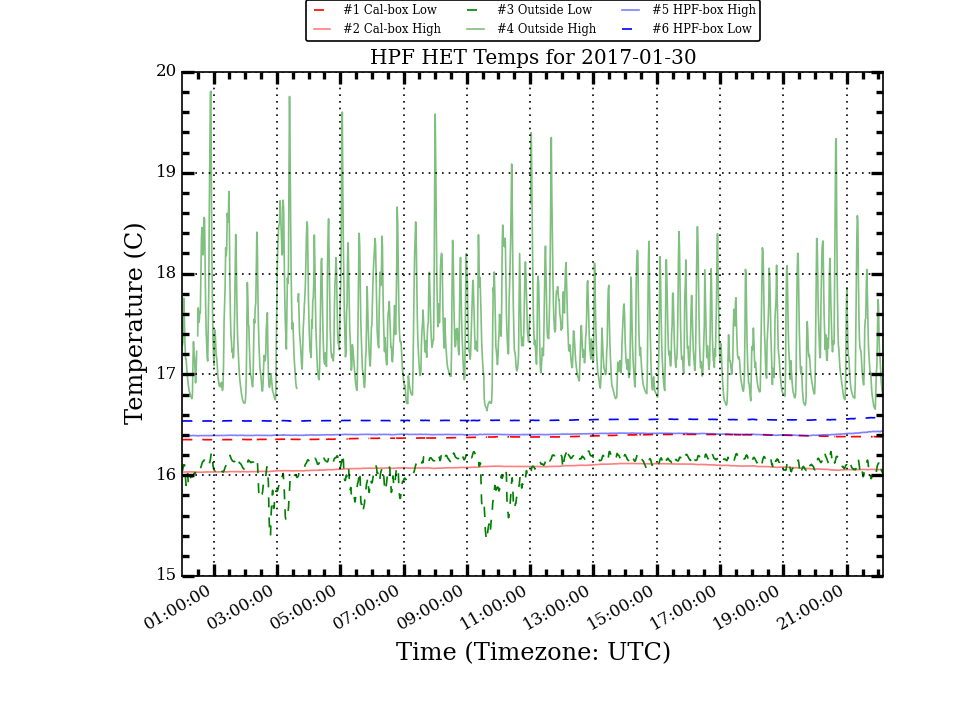
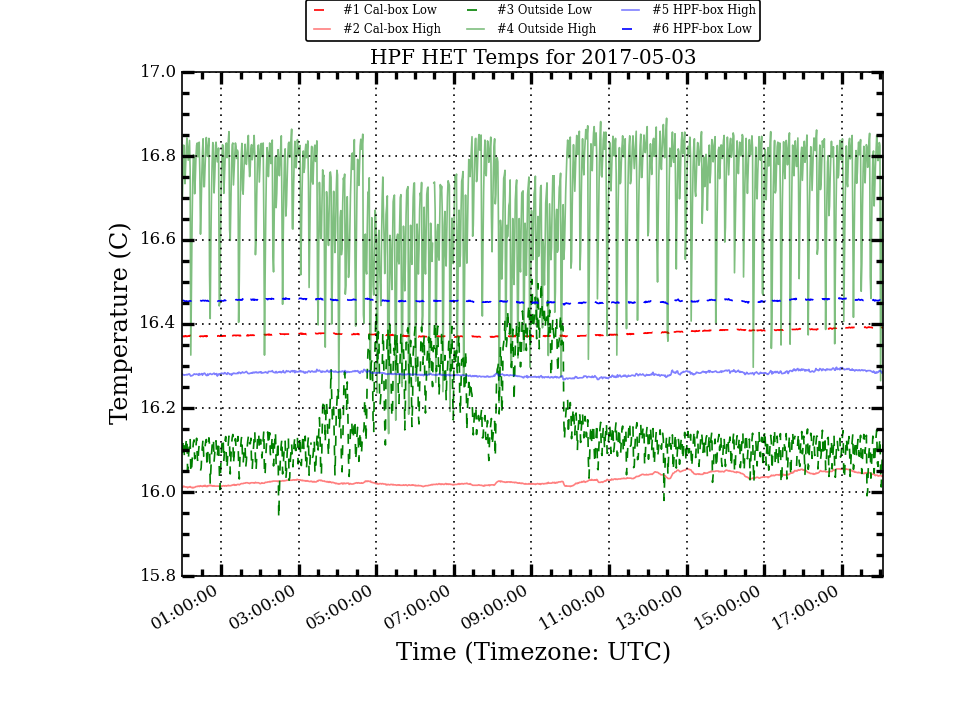
Update HPF Temp Plots

diff --git a/research/hpf_temps/plots/LakeShoreLogTotal_today_stats.html b/research/hpf_temps/plots/LakeShoreLogTotal_today_stats.html
@@ -10,56 +10,56 @@
  </TR>
  <TR>
   <TD>Cal_Low</TD>
-  <TD>16.379</TD>
-  <TD>0.018</TD>
-  <TD>16.380</TD>
-  <TD>16.405</TD>
-  <TD>16.351</TD>
-  <TD>0.054</TD>
+  <TD>16.377</TD>
+  <TD>0.007</TD>
+  <TD>16.375</TD>
+  <TD>16.393</TD>
+  <TD>16.369</TD>
+  <TD>0.024</TD>
  </TR>
  <TR>
   <TD>Cal_High</TD>
-  <TD>16.074</TD>
-  <TD>0.025</TD>
-  <TD>16.073</TD>
-  <TD>16.117</TD>
-  <TD>16.028</TD>
-  <TD>0.089</TD>
+  <TD>16.029</TD>
+  <TD>0.013</TD>
+  <TD>16.025</TD>
+  <TD>16.056</TD>
+  <TD>16.010</TD>
+  <TD>0.046</TD>
  </TR>
  <TR>
   <TD>Out_Low</TD>
-  <TD>16.075</TD>
-  <TD>0.142</TD>
-  <TD>16.126</TD>
-  <TD>16.241</TD>
-  <TD>15.356</TD>
-  <TD>0.885</TD>
+  <TD>16.166</TD>
+  <TD>0.107</TD>
+  <TD>16.129</TD>
+  <TD>16.506</TD>
+  <TD>15.938</TD>
+  <TD>0.568</TD>
  </TR>
  <TR>
   <TD>Out_High</TD>
-  <TD>17.414</TD>
-  <TD>0.515</TD>
-  <TD>17.294</TD>
-  <TD>19.810</TD>
-  <TD>16.640</TD>
-  <TD>3.170</TD>
+  <TD>16.702</TD>
+  <TD>0.142</TD>
+  <TD>16.751</TD>
+  <TD>16.890</TD>
+  <TD>16.139</TD>
+  <TD>0.751</TD>
  </TR>
  <TR>
   <TD>HPF_High</TD>
-  <TD>16.405</TD>
-  <TD>0.008</TD>
-  <TD>16.404</TD>
-  <TD>16.441</TD>
-  <TD>16.390</TD>
-  <TD>0.051</TD>
+  <TD>16.282</TD>
+  <TD>0.006</TD>
+  <TD>16.282</TD>
+  <TD>16.297</TD>
+  <TD>16.267</TD>
+  <TD>0.030</TD>
  </TR>
  <TR>
   <TD>HPF_Low</TD>
-  <TD>16.547</TD>
-  <TD>0.007</TD>
-  <TD>16.545</TD>
-  <TD>16.573</TD>
-  <TD>16.535</TD>
-  <TD>0.038</TD>
+  <TD>16.455</TD>
+  <TD>0.003</TD>
+  <TD>16.455</TD>
+  <TD>16.462</TD>
+  <TD>16.446</TD>
+  <TD>0.016</TD>
  </TR>
 </TABLE>

diff --git a/research/hpf_temps/plots/LakeShoreLogTotal_stats.html b/research/hpf_temps/plots/LakeShoreLogTotal_stats.html
@@ -10,54 +10,54 @@
  </TR>
  <TR>
   <TD>Cal_Low</TD>
-  <TD>17.364</TD>
-  <TD>2.349</TD>
-  <TD>16.519</TD>
+  <TD>17.291</TD>
+  <TD>2.270</TD>
+  <TD>16.491</TD>
   <TD>25.643</TD>
   <TD>14.362</TD>
   <TD>11.281</TD>
  </TR>
  <TR>
   <TD>Cal_High</TD>
-  <TD>17.063</TD>
-  <TD>2.489</TD>
-  <TD>16.153</TD>
+  <TD>16.986</TD>
+  <TD>2.405</TD>
+  <TD>16.128</TD>
   <TD>26.856</TD>
   <TD>13.829</TD>
   <TD>13.027</TD>
  </TR>
  <TR>
   <TD>Out_Low</TD>
-  <TD>17.052</TD>
-  <TD>2.540</TD>
-  <TD>16.167</TD>
+  <TD>16.979</TD>
+  <TD>2.453</TD>
+  <TD>16.150</TD>
   <TD>26.532</TD>
   <TD>11.376</TD>
   <TD>15.156</TD>
  </TR>
  <TR>
   <TD>Out_High</TD>
-  <TD>18.010</TD>
-  <TD>2.919</TD>
-  <TD>17.033</TD>
+  <TD>17.918</TD>
+  <TD>2.823</TD>
+  <TD>16.984</TD>
   <TD>31.424</TD>
   <TD>11.861</TD>
   <TD>19.563</TD>
  </TR>
  <TR>
   <TD>HPF_High</TD>
-  <TD>17.119</TD>
-  <TD>1.870</TD>
-  <TD>16.375</TD>
+  <TD>17.061</TD>
+  <TD>1.808</TD>
+  <TD>16.370</TD>
   <TD>26.165</TD>
   <TD>15.065</TD>
   <TD>11.100</TD>
  </TR>
  <TR>
   <TD>HPF_Low</TD>
-  <TD>17.263</TD>
-  <TD>1.777</TD>
-  <TD>16.570</TD>
+  <TD>17.207</TD>
+  <TD>1.718</TD>
+  <TD>16.563</TD>
   <TD>24.868</TD>
   <TD>9.505</TD>
   <TD>15.363</TD>
